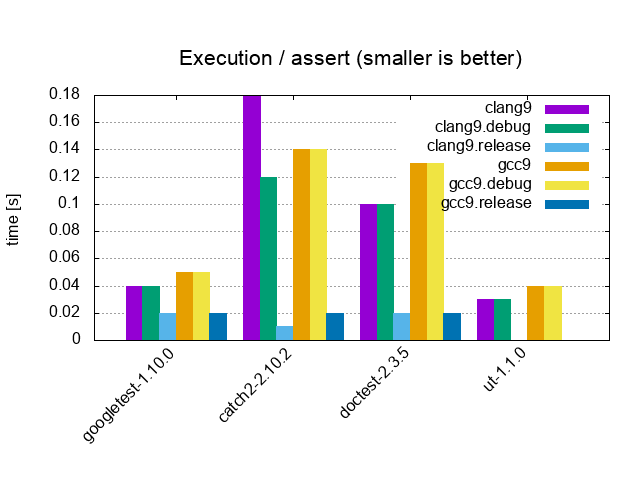
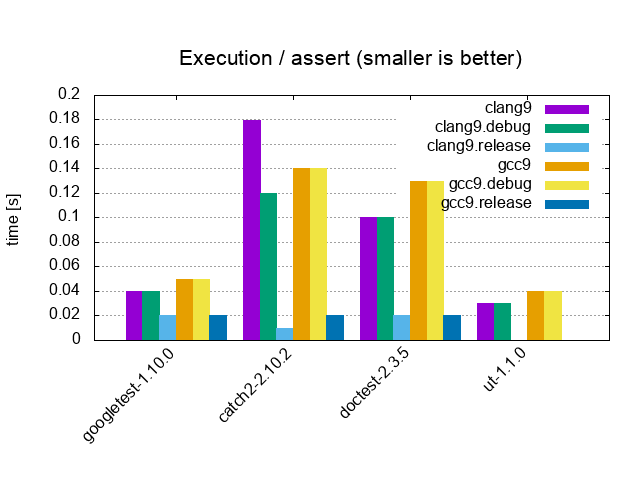
improved graphs

diff --git a/README.md b/README.md
@@ -25,8 +25,8 @@
 
   <table>
     <tr>
-      <td colspan="2">
-      <center><a href="benchmarks"><b>Include</b></a> / 1 test, 1'000'000 asserts, 1 cpp file</center>
+      <td colspan="2" align="center">
+      <a href="benchmarks"><b>Include</b></a> / 1 test, 1'000'000 asserts, 1 cpp file
       </td>
     </tr>
     <tr>
